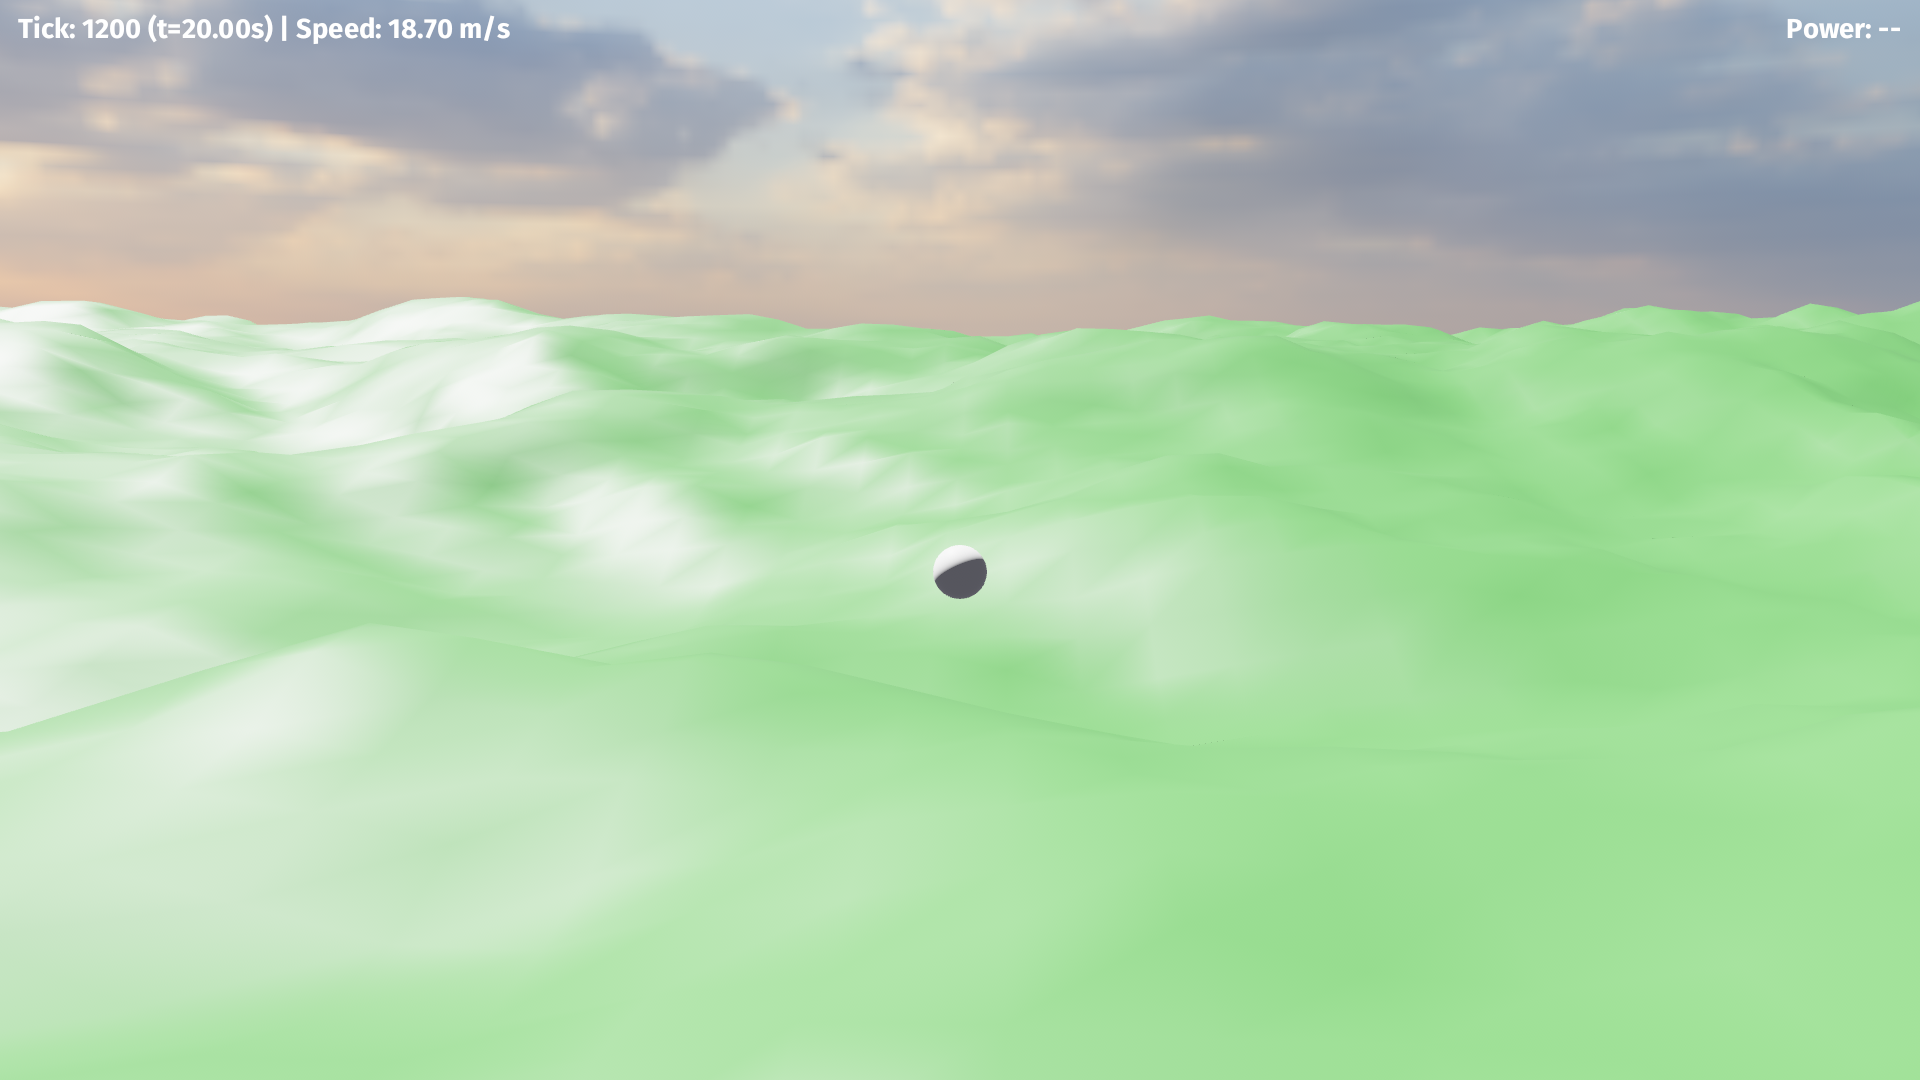
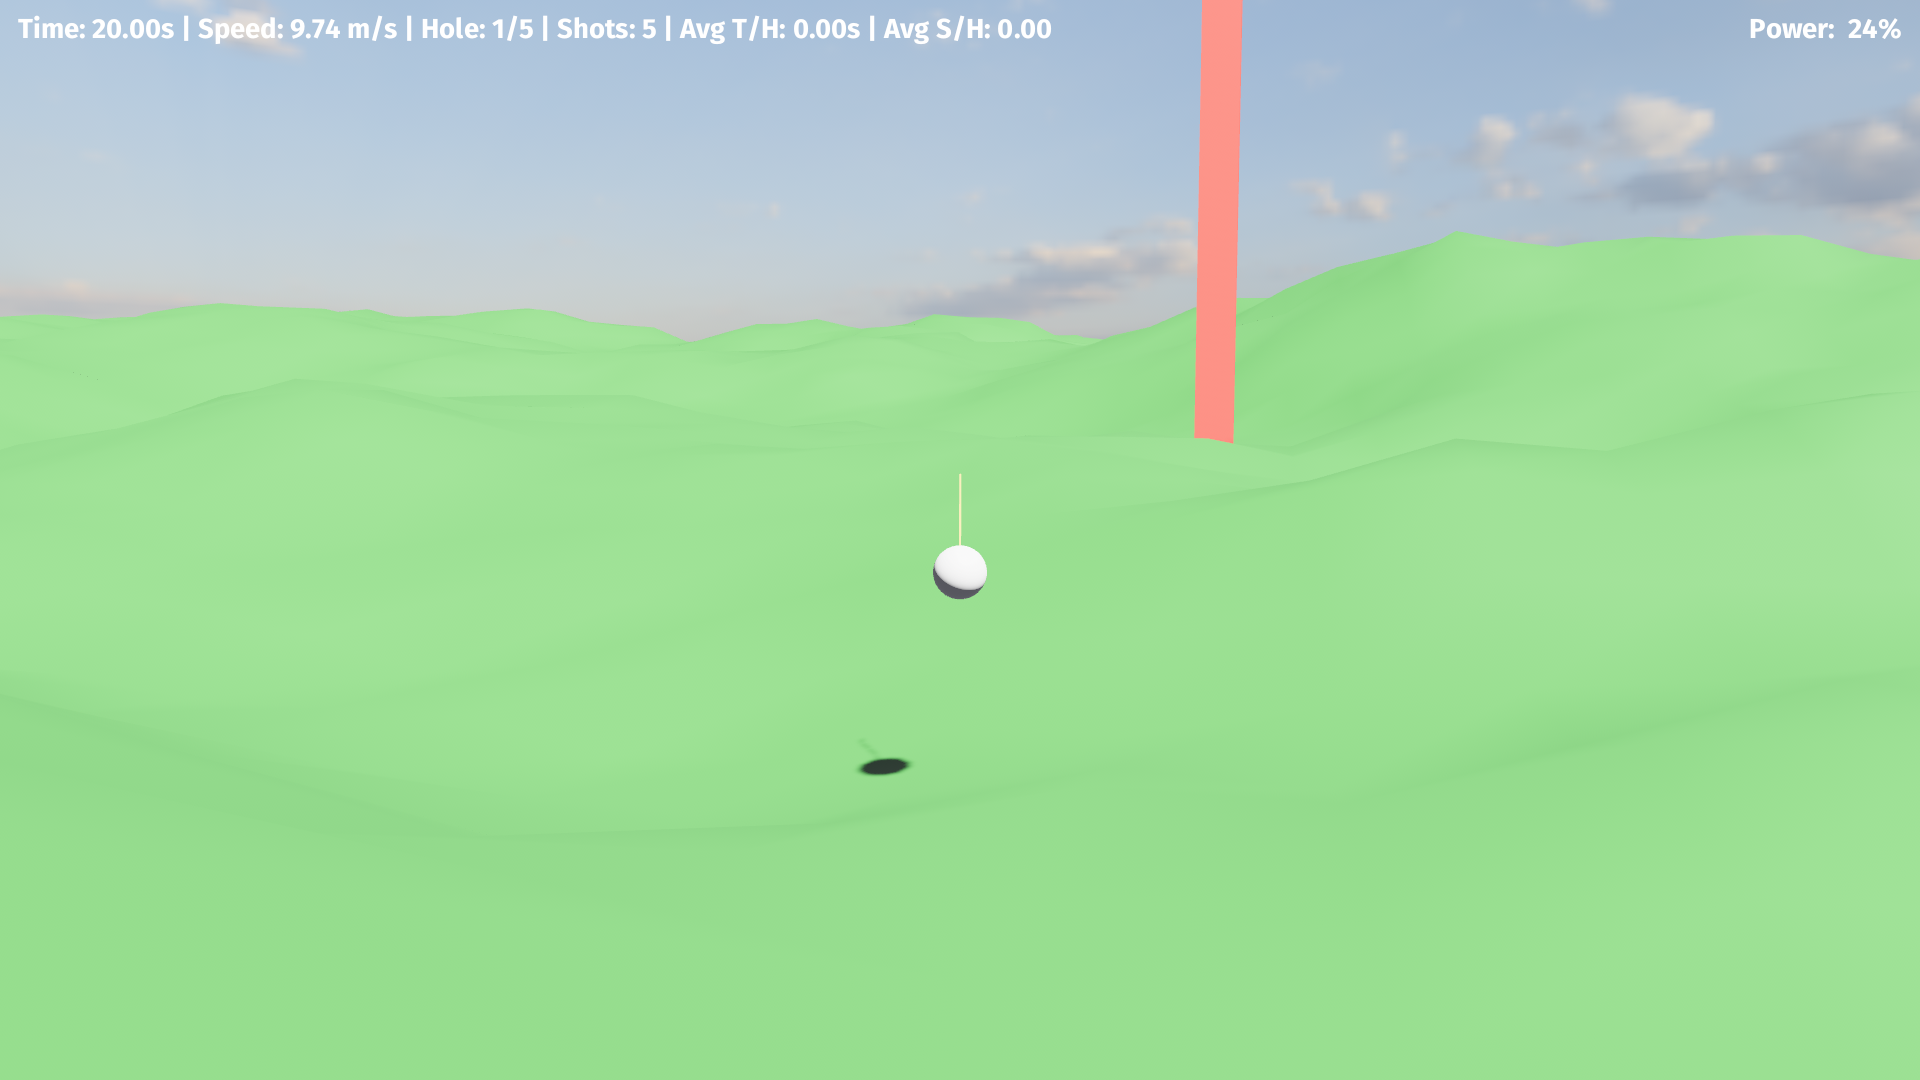
full game

diff --git a/src/plugins/scene.rs b/src/plugins/scene.rs
@@ -3,6 +3,7 @@ use bevy::math::primitives::{Cuboid, Sphere};
 use bevy_rapier3d::prelude::*;
 use crate::plugins::terrain::TerrainSampler;
 use crate::plugins::camera::OrbitCamera;
+use crate::plugins::core_sim::SimState;
 use bevy::input::mouse::MouseButton;
 use bevy::render::camera::ClearColorConfig;
 use bevy::render::mesh::{Indices, PrimitiveTopology};
@@ -67,9 +68,17 @@ impl Default for ShotConfig {
     }
 }
 
-#[derive(Resource, Default, Debug)]
+#[derive(Resource, Debug)]
 pub struct Score {
     pub hits: u32,
+    pub shots: u32,
+    pub max_holes: u32,
+    pub game_over: bool,
+}
+impl Default for Score {
+    fn default() -> Self {
+        Self { hits: 0, shots: 0, max_holes: 5, game_over: false }
+    }
 }
 
 pub struct ScenePlugin;
@@ -131,7 +140,7 @@ impl Plugin for ScenePlugin {
             .insert_resource(Score::default())
             .add_systems(Startup, (setup_scene, setup_ui))
             .add_systems(FixedUpdate, (simple_ball_physics, update_shot_charge, detect_target_hits))
-            .add_systems(Update, (handle_shot_input, update_shot_indicator, update_power_gauge));
+            .add_systems(Update, (handle_shot_input, update_shot_indicator, update_power_gauge, reset_game));
     }
 }
 
@@ -330,10 +339,14 @@ fn handle_shot_input(
     buttons: Res<ButtonInput<MouseButton>>,
     mut state: ResMut<ShotState>,
     cfg: Res<ShotConfig>,
+    mut score: ResMut<Score>,
     mut q_ball: Query<(&Transform, &mut BallKinematic), (With<Ball>, Without<ShotIndicator>)>,
     q_cam: Query<&Transform, (With<OrbitCamera>, Without<Ball>, Without<ShotIndicator>)>,
     mut q_indicator: Query<(&mut Transform, &mut Visibility), (With<ShotIndicator>, Without<Ball>, Without<OrbitCamera>)>,
 ) {
+    if score.game_over {
+        return;
+    }
     let Ok((ball_t, mut kin)) = q_ball.get_single_mut() else { return; };
     let Ok(cam_t) = q_cam.get_single() else { return; };
     let Ok((mut ind_t, mut vis)) = q_indicator.get_single_mut() else { return; };
@@ -358,6 +371,7 @@ fn handle_shot_input(
 
         let impulse = cfg.base_impulse * state.power.max(0.05);
         kin.vel += dir * impulse;
+        score.shots += 1;
 
         // Reset
         state.mode = ShotMode::Idle;
@@ -464,6 +478,10 @@ fn detect_target_hits(
     if dx <= half && dz <= half {
         // Hit
         score.hits += 1;
+        if score.hits >= score.max_holes {
+            score.game_over = true;
+            return;
+        }
 
         // Reposition pillar pseudo-randomly within chunk using angular increment
         // Approx chunk half-size (matches TerrainConfig::default chunk_size 384.0)
@@ -478,5 +496,46 @@ fn detect_target_hits(
         let pillar_half_height = target_t.scale.y * 0.5; // original scaling 1.0 in Y (no scale change), fallback
         let ground = sampler.height(new_x, new_z);
         target_t.translation = Vec3::new(new_x, ground + pillar_half_height, new_z);
+    }
+}
+
+fn reset_game(
+    keys: Res<ButtonInput<KeyCode>>,
+    mut sim: ResMut<SimState>,
+    mut score: ResMut<Score>,
+    mut q_ball: Query<(&mut Transform, &mut BallKinematic), With<Ball>>,
+    mut q_target: Query<&mut Transform, (With<Target>, Without<Ball>)>,
+    sampler: Res<TerrainSampler>,
+) {
+    if !(score.game_over && keys.just_pressed(KeyCode::KeyR)) {
+        return;
+    }
+    // Reset sim state
+    sim.tick = 0;
+    sim.elapsed_seconds = 0.0;
+
+    // Reset score
+    score.hits = 0;
+    score.shots = 0;
+    score.game_over = false;
+
+    // Reset ball position / velocity
+    if let Ok((mut t, mut kin)) = q_ball.get_single_mut() {
+        let x = 0.0;
+        let z = 0.0;
+        let ground_h = sampler.height(x, z);
+        let spawn_y = ground_h + kin.radius + 10.0;
+        t.translation = Vec3::new(x, spawn_y, z);
+        t.rotation = Quat::IDENTITY;
+        kin.vel = Vec3::ZERO;
+    }
+
+    // Reset target to original pillar location
+    if let Ok(mut tt) = q_target.get_single_mut() {
+        let target_x = 0.0;
+        let target_z = 80.0;
+        let pillar_height = 16.0;
+        let ground = sampler.height(target_x, target_z);
+        tt.translation = Vec3::new(target_x, ground + pillar_height * 0.5, target_z);
     }
 }

diff --git a/src/plugins/hud.rs b/src/plugins/hud.rs
@@ -1,7 +1,7 @@
 use bevy::prelude::*;
 
 use crate::plugins::core_sim::SimState;
-use crate::plugins::scene::{Hud, BallKinematic};
+use crate::plugins::scene::{Hud, BallKinematic, Score};
 
 pub struct HudPlugin;
 impl Plugin for HudPlugin {
@@ -12,11 +12,37 @@ impl Plugin for HudPlugin {
 
 fn update_hud(
     sim: Res<SimState>,
+    score: Res<Score>,
     q_ball: Query<&BallKinematic>,
     mut q_text: Query<&mut Text, With<Hud>>,
 ) {
     if let (Ok(kin), Ok(mut text)) = (q_ball.get_single(), q_text.get_single_mut()) {
         let speed = kin.vel.length();
-        text.sections[0].value = format!("Tick: {} (t={:.2}s) | Speed: {:.2} m/s", sim.tick, sim.elapsed_seconds, speed);
+        if score.game_over {
+            let avg_time = sim.elapsed_seconds / score.hits.max(1) as f32;
+            let avg_shots = score.shots as f32 / score.hits.max(1) as f32;
+            text.sections[0].value = format!(
+                "GAME OVER | Time: {:.2}s | Final Holes: {} | Shots: {} | Avg Time/Hole: {:.2}s | Avg Shots/Hole: {:.2} | Press R to Reset",
+                sim.elapsed_seconds,
+                score.hits,
+                score.shots,
+                avg_time,
+                avg_shots,
+            );
+        } else {
+            let current_hole = score.hits + 1;
+            let avg_time = if score.hits > 0 { sim.elapsed_seconds / score.hits as f32 } else { 0.0 };
+            let avg_shots = if score.hits > 0 { score.shots as f32 / score.hits as f32 } else { 0.0 };
+            text.sections[0].value = format!(
+                "Time: {:.2}s | Speed: {:.2} m/s | Hole: {}/{} | Shots: {} | Avg T/H: {:.2}s | Avg S/H: {:.2}",
+                sim.elapsed_seconds,
+                speed,
+                current_hole,
+                score.max_holes,
+                score.shots,
+                avg_time,
+                avg_shots,
+            );
+        }
     }
 }

diff --git a/stories.md b/stories.md
@@ -27,40 +27,13 @@ Out of Scope (Explicitly Deferred):
 ## Release G1 – Core Interaction Loop
 
 ### P0: Orbit Camera (Mouse Pivot)
-As a player I want to rotate the view around the stationary ball to line up my shot.
-AC:
-- Right Mouse Drag adjusts yaw (infinite wrap) & pitch clamped (e.g. [-10°, 65°]).
-- Scroll Wheel zooms radius clamped [Rmin, Rmax] (e.g. [4.0, 18.0]).
-- Camera smoothly lerps to new transform OR snaps (config toggle).
-- Maintains a minimum clearance above terrain: if camera would clip, raise along normal or push outward.
-- Deterministic math (no frame time dependency for core state — state updates in FixedUpdate or stabilized accumulation).
-Artifacts:
-- Resource: OrbitCameraState { yaw, pitch, radius }
-- Marker component: OrbitCamera
-- Config: OrbitCameraConfig { pitch_min, pitch_max, radius_min, radius_max, zoom_speed, orbit_sensitivity }
+Done
 
 ### P0: Aim State & Charging (Mouse Hold)
-As a player I want to hold the primary mouse button to build shot power.
-AC:
-- Idle → Charging when LMB pressed AND ball speed < rest_threshold AND not in Cooldown.
-- Power ramps linearly 0→1 over charge_seconds.
-- Cancels back to Idle on ESC or RMB drag start mid-charge.
-- HUD displays power percentage & state.
-Artifacts:
-- Resource: AimState { mode: Idle|Charging|Cooldown, power: f32, last_shot_tick: u64 }
-- Config: AimConfig { charge_seconds, cooldown_seconds, rest_speed_threshold }
+Done
 
 ### P0: Shot Release & Ball Impulse
-As a player I want the shot to fire when I release the button.
-AC:
-- On LMB release while Charging: emit ShotEvent { power, dir, loft_deg }.
-- Direction = camera forward flattened (y=0) normalized.
-- Loft (initial P0): fixed small lift (e.g. 5°) OR 0 (config).
-- Ball velocity += dir_with_loft * (base_impulse * power).
-- Stroke counter increments.
-Artifacts:
-- Event: ShotEvent
-- Resource: StrokeState { strokes: u32 }
+Done
 
 ### P0: Cooldown & Re-Aim Gating
 As a player I should not be able to spam shots while ball is obviously still rolling.
